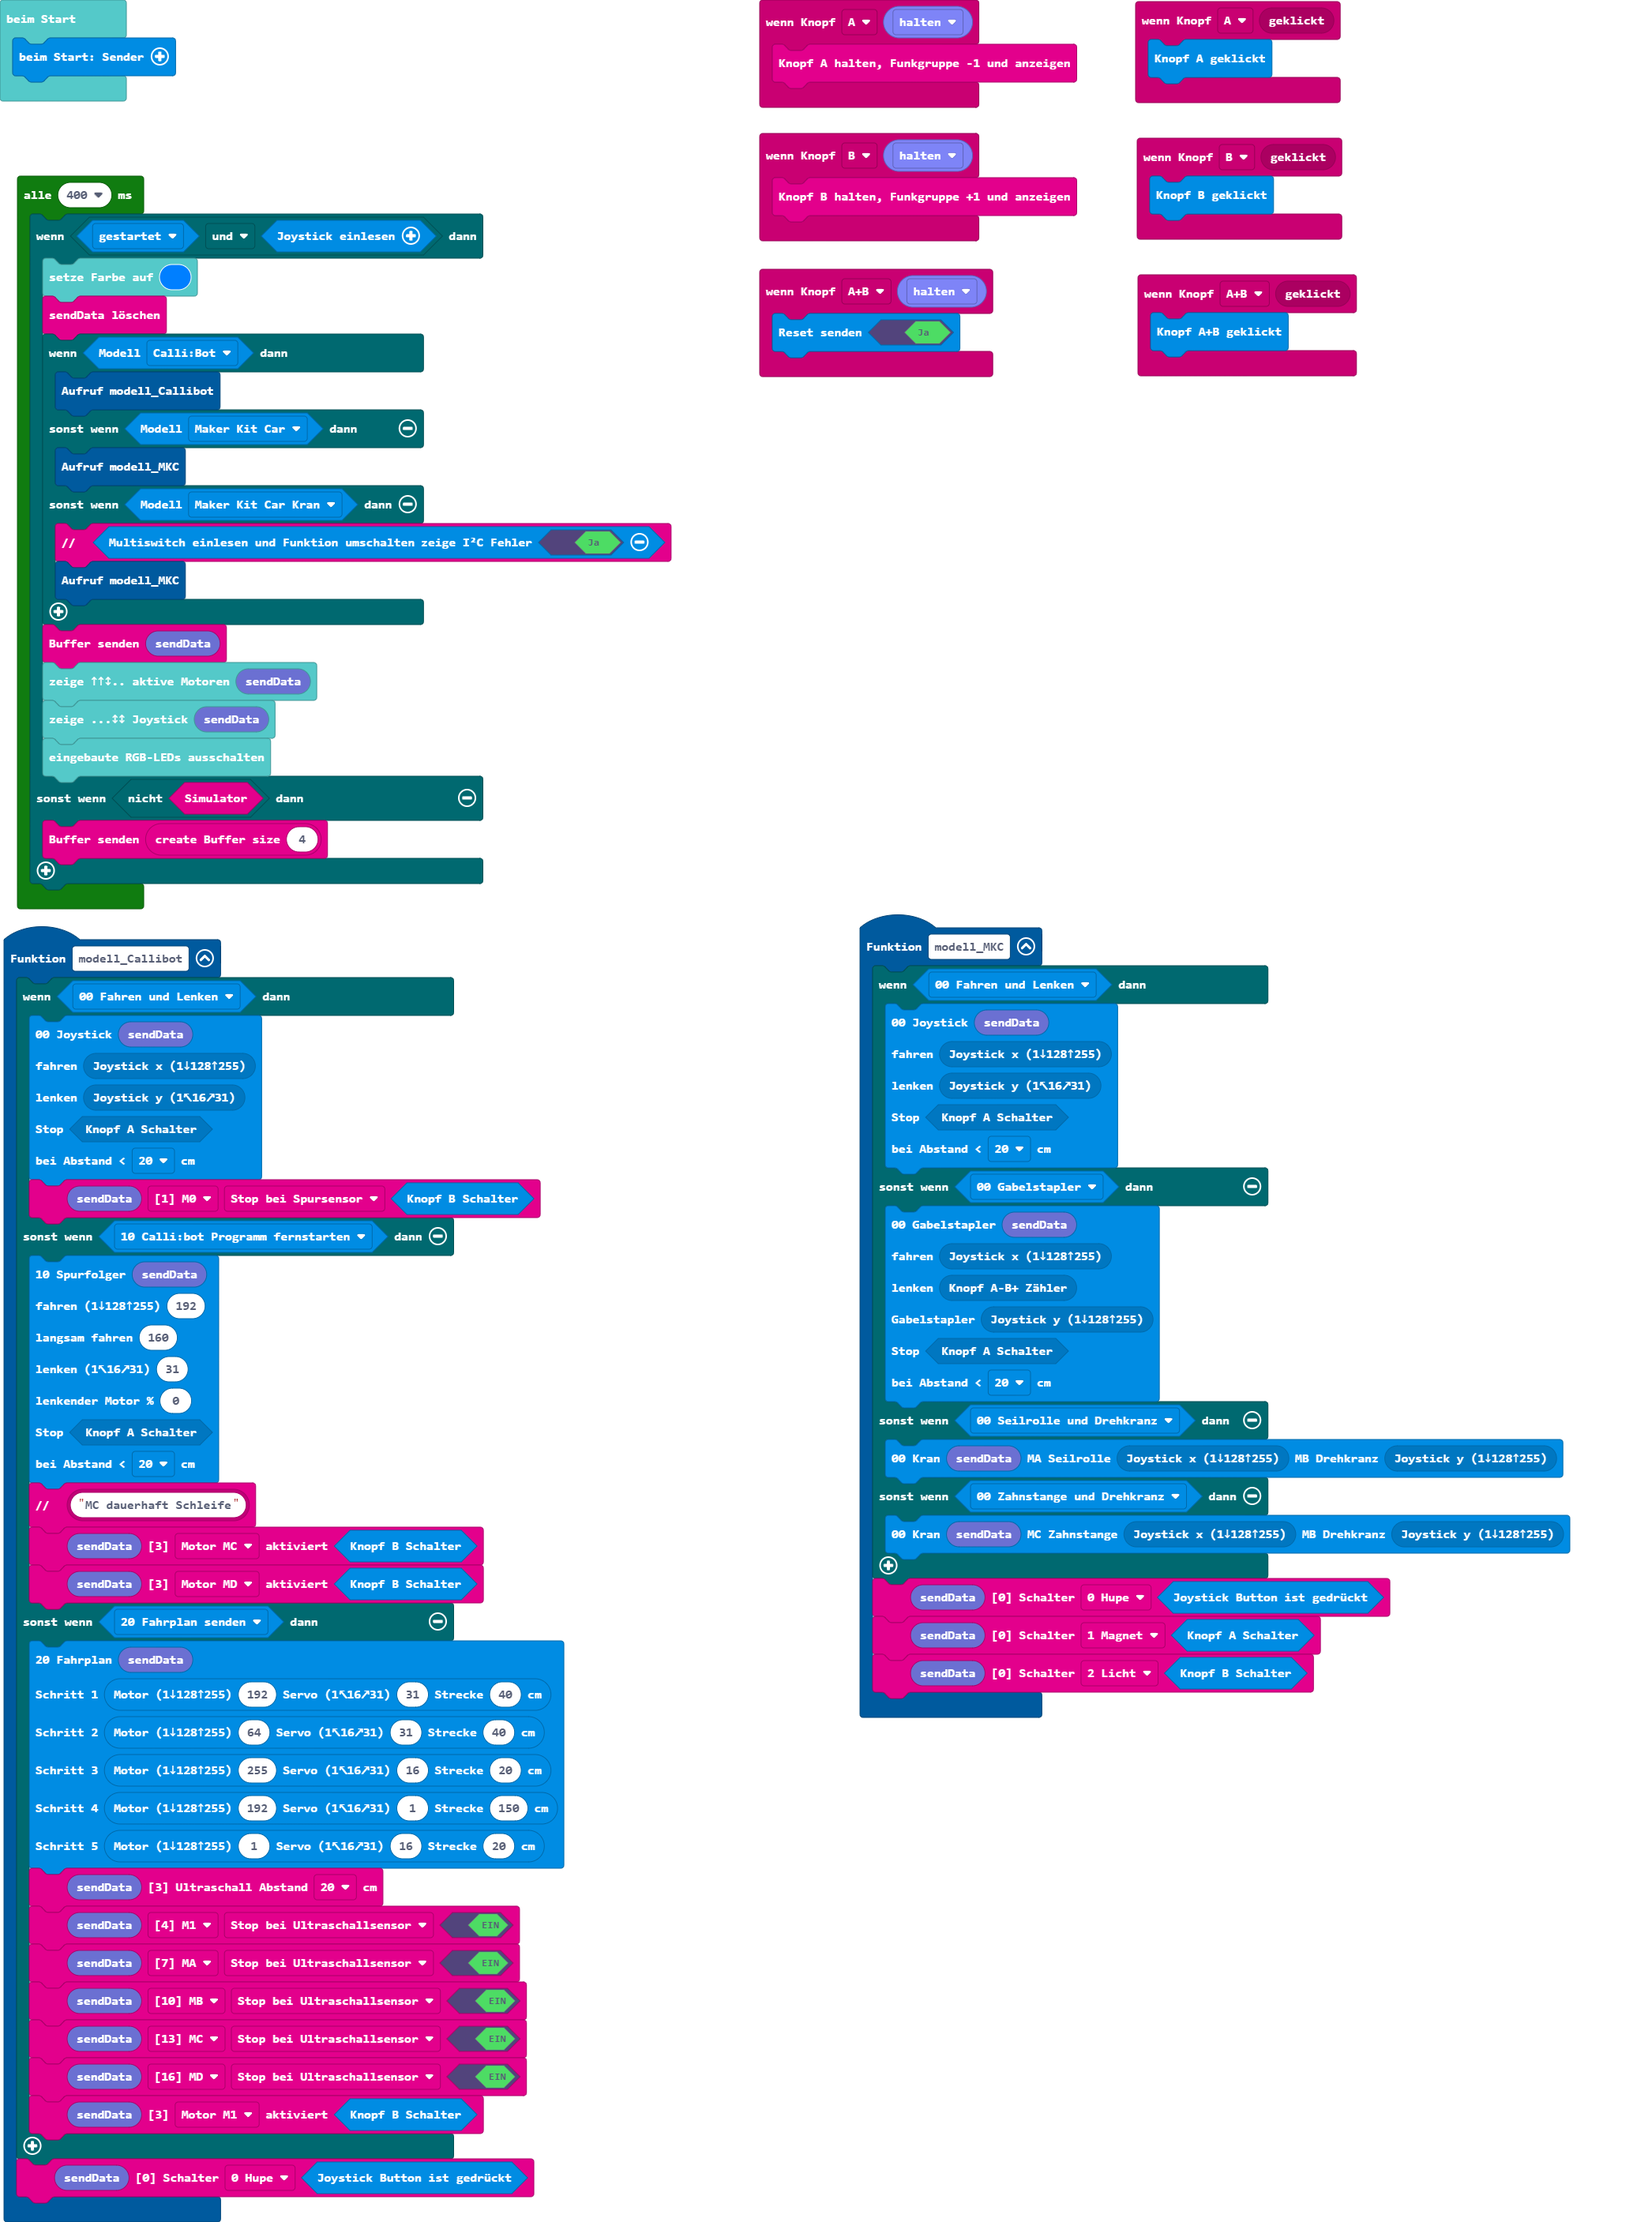
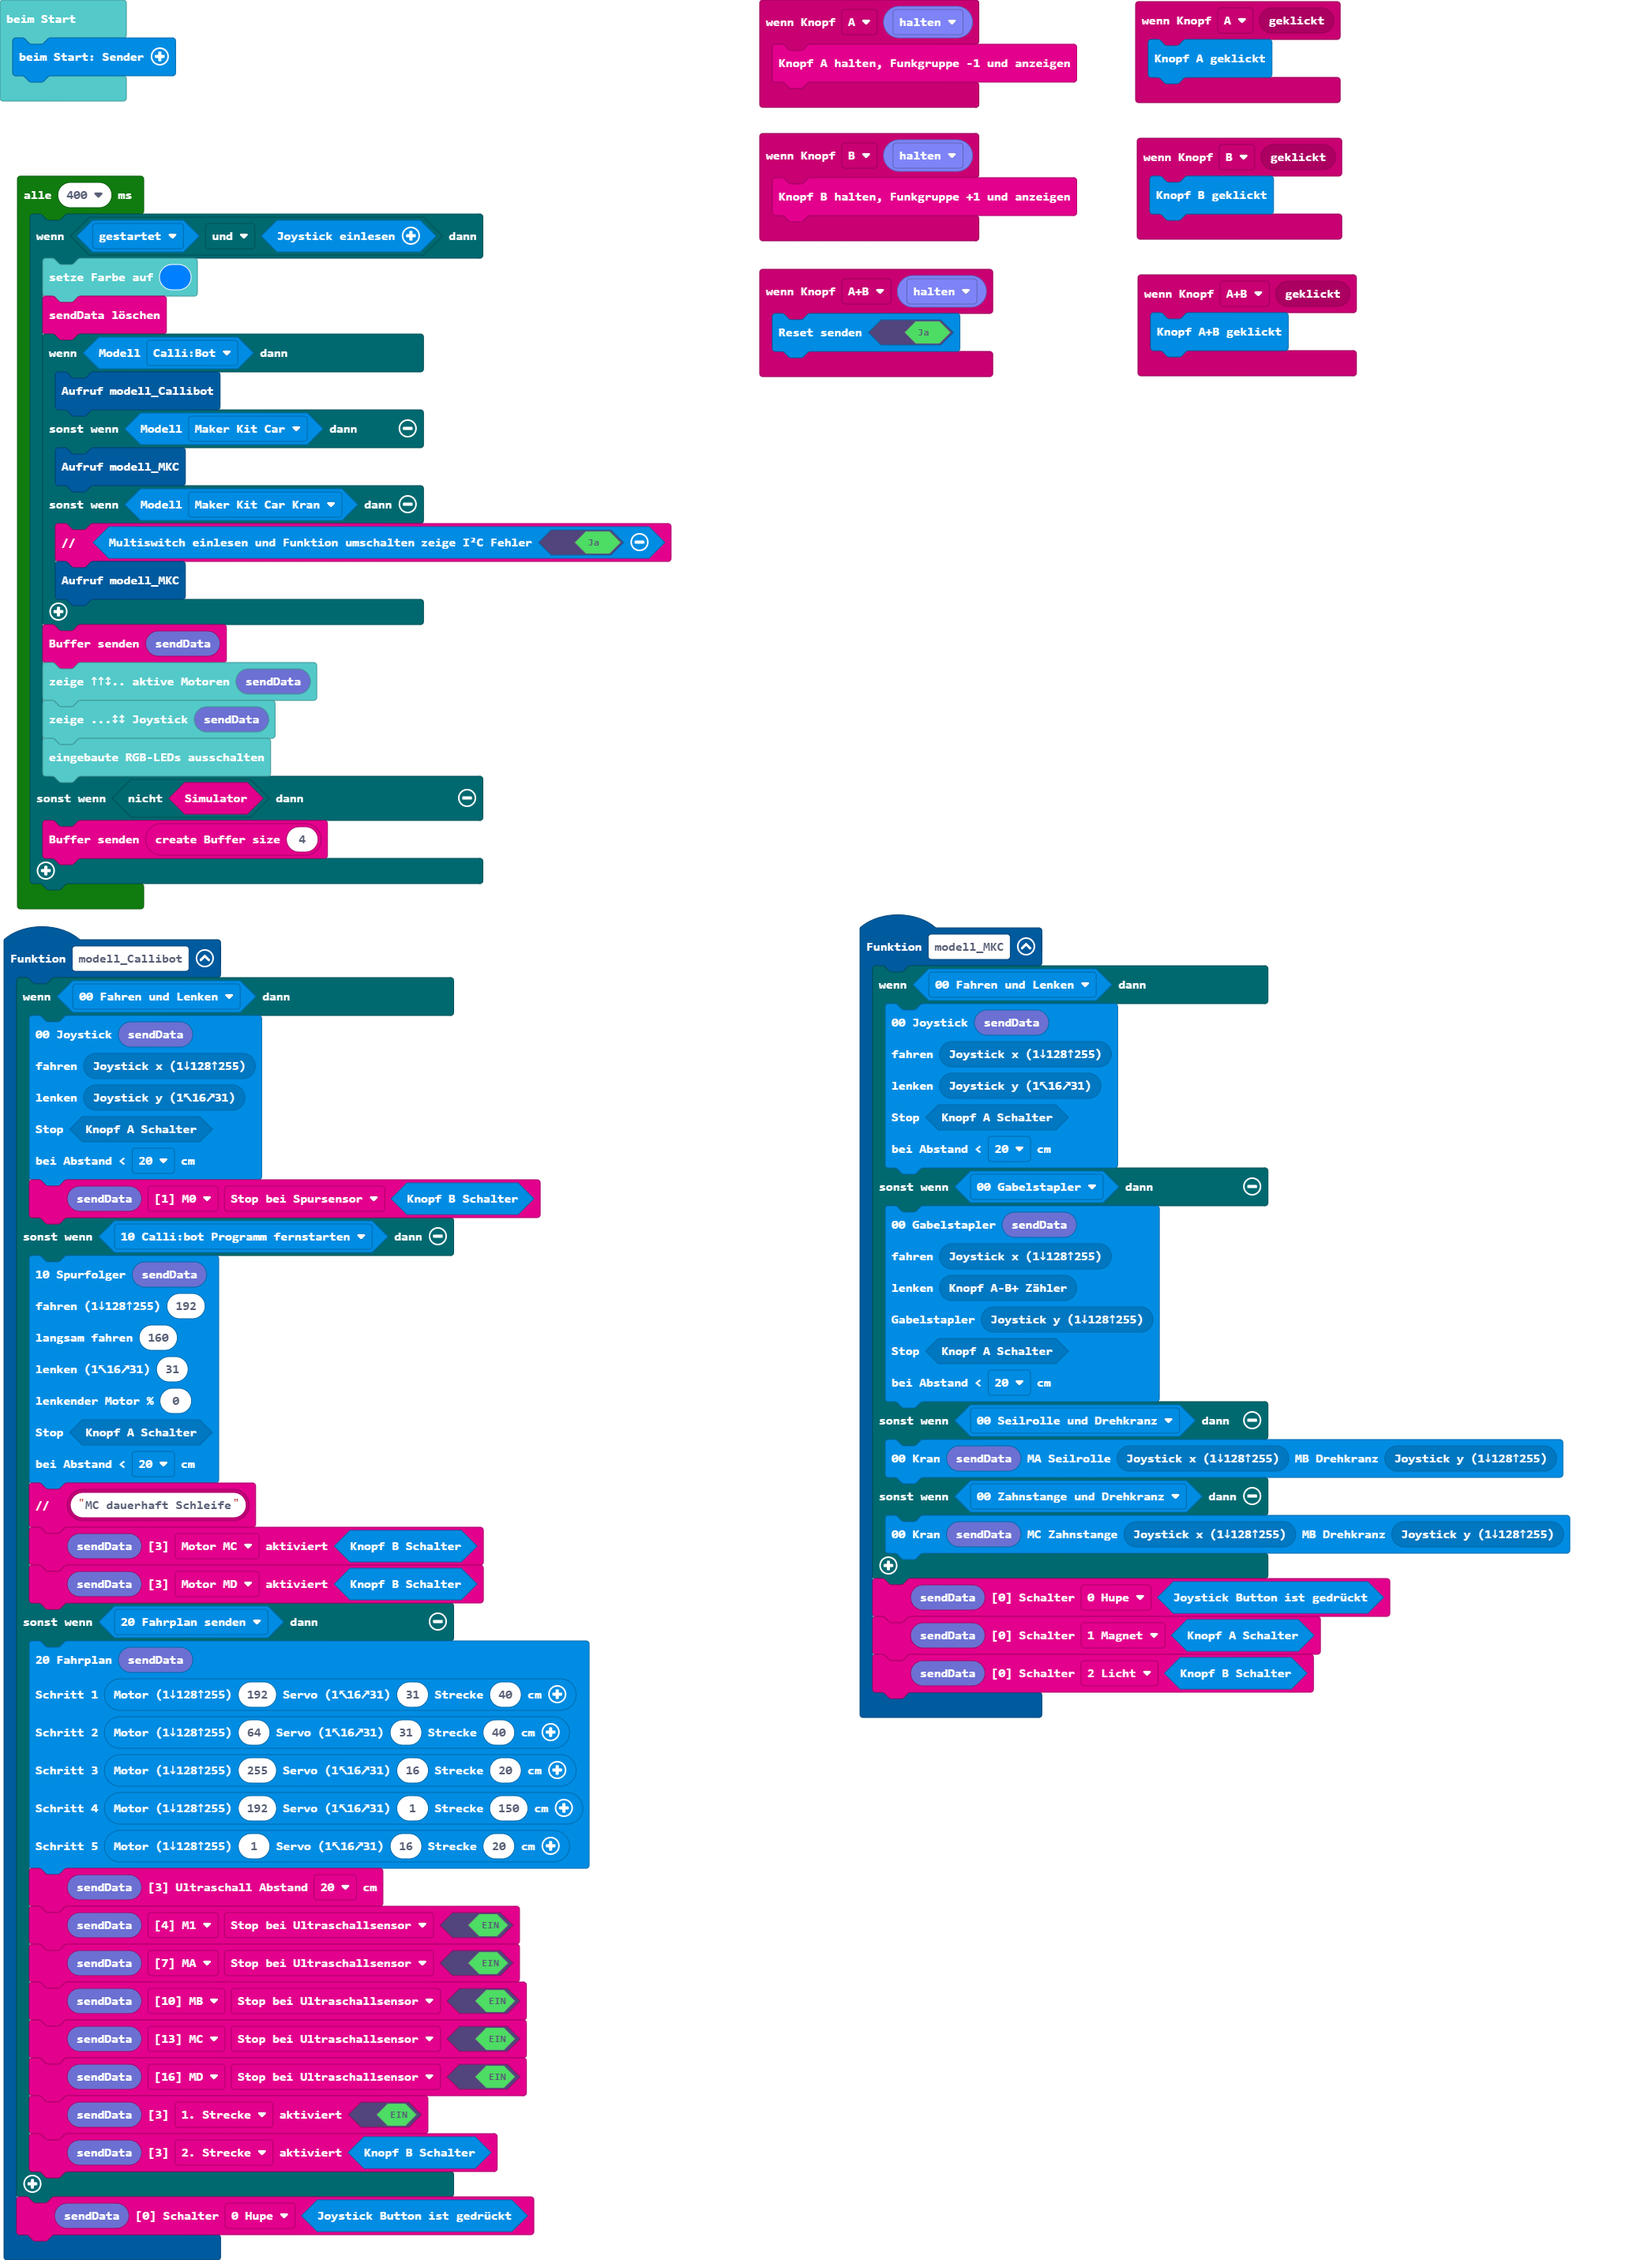
Aktualisiere pxt.json, main.blocks, main.ts

diff --git a/main.ts b/main.ts
@@ -36,7 +36,8 @@ function modell_Callibot () {
         btf.setSensor(btf.btf_sendBuffer19(), btf.eBufferPointer.mb, btf.eSensor.b6Abstand, true)
         btf.setSensor(btf.btf_sendBuffer19(), btf.eBufferPointer.mc, btf.eSensor.b6Abstand, true)
         btf.setSensor(btf.btf_sendBuffer19(), btf.eBufferPointer.md, btf.eSensor.b6Abstand, true)
-        btf.setaktiviert(btf.btf_sendBuffer19(), btf.e3aktiviert.m1, sender.sender_ButtonB_Switch())
+        btf.setaktiviert(btf.btf_sendBuffer19(), btf.e3aktiviert.f1, true)
+        btf.setaktiviert(btf.btf_sendBuffer19(), btf.e3aktiviert.f2, sender.sender_ButtonB_Switch())
     }
     btf.setSchalter(btf.btf_sendBuffer19(), btf.e0Schalter.b0, sender.joystickButtonPosition())
 }
